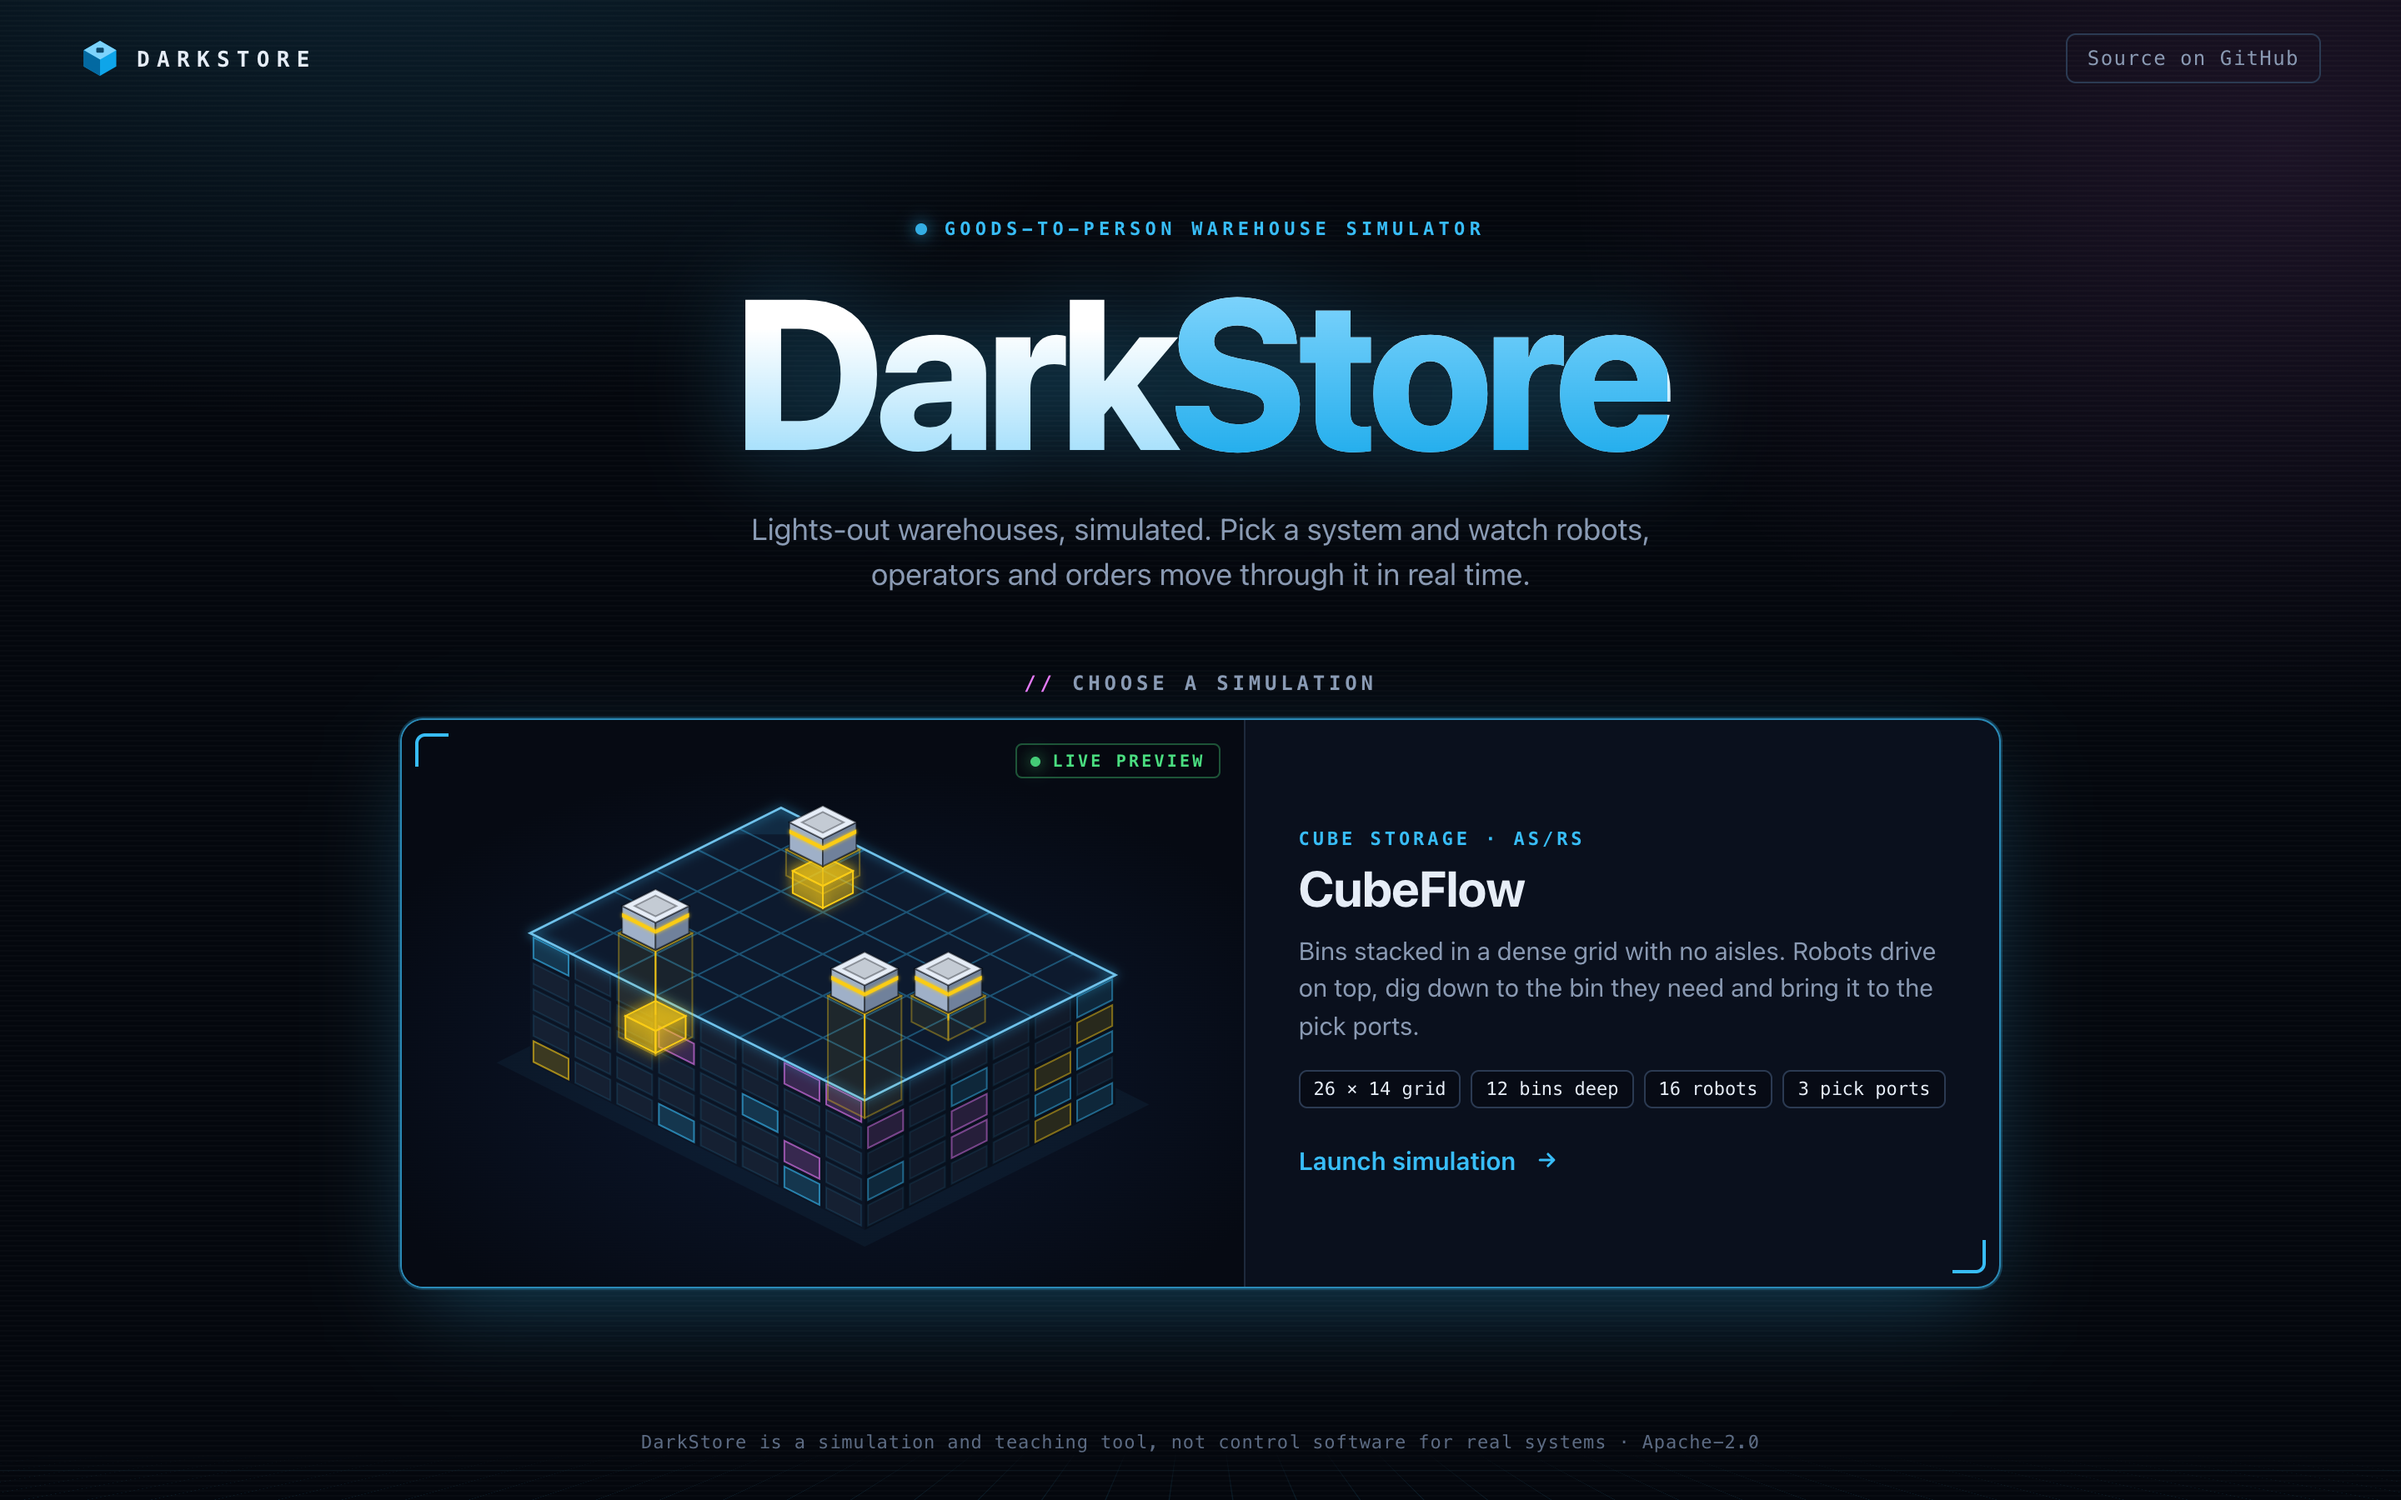
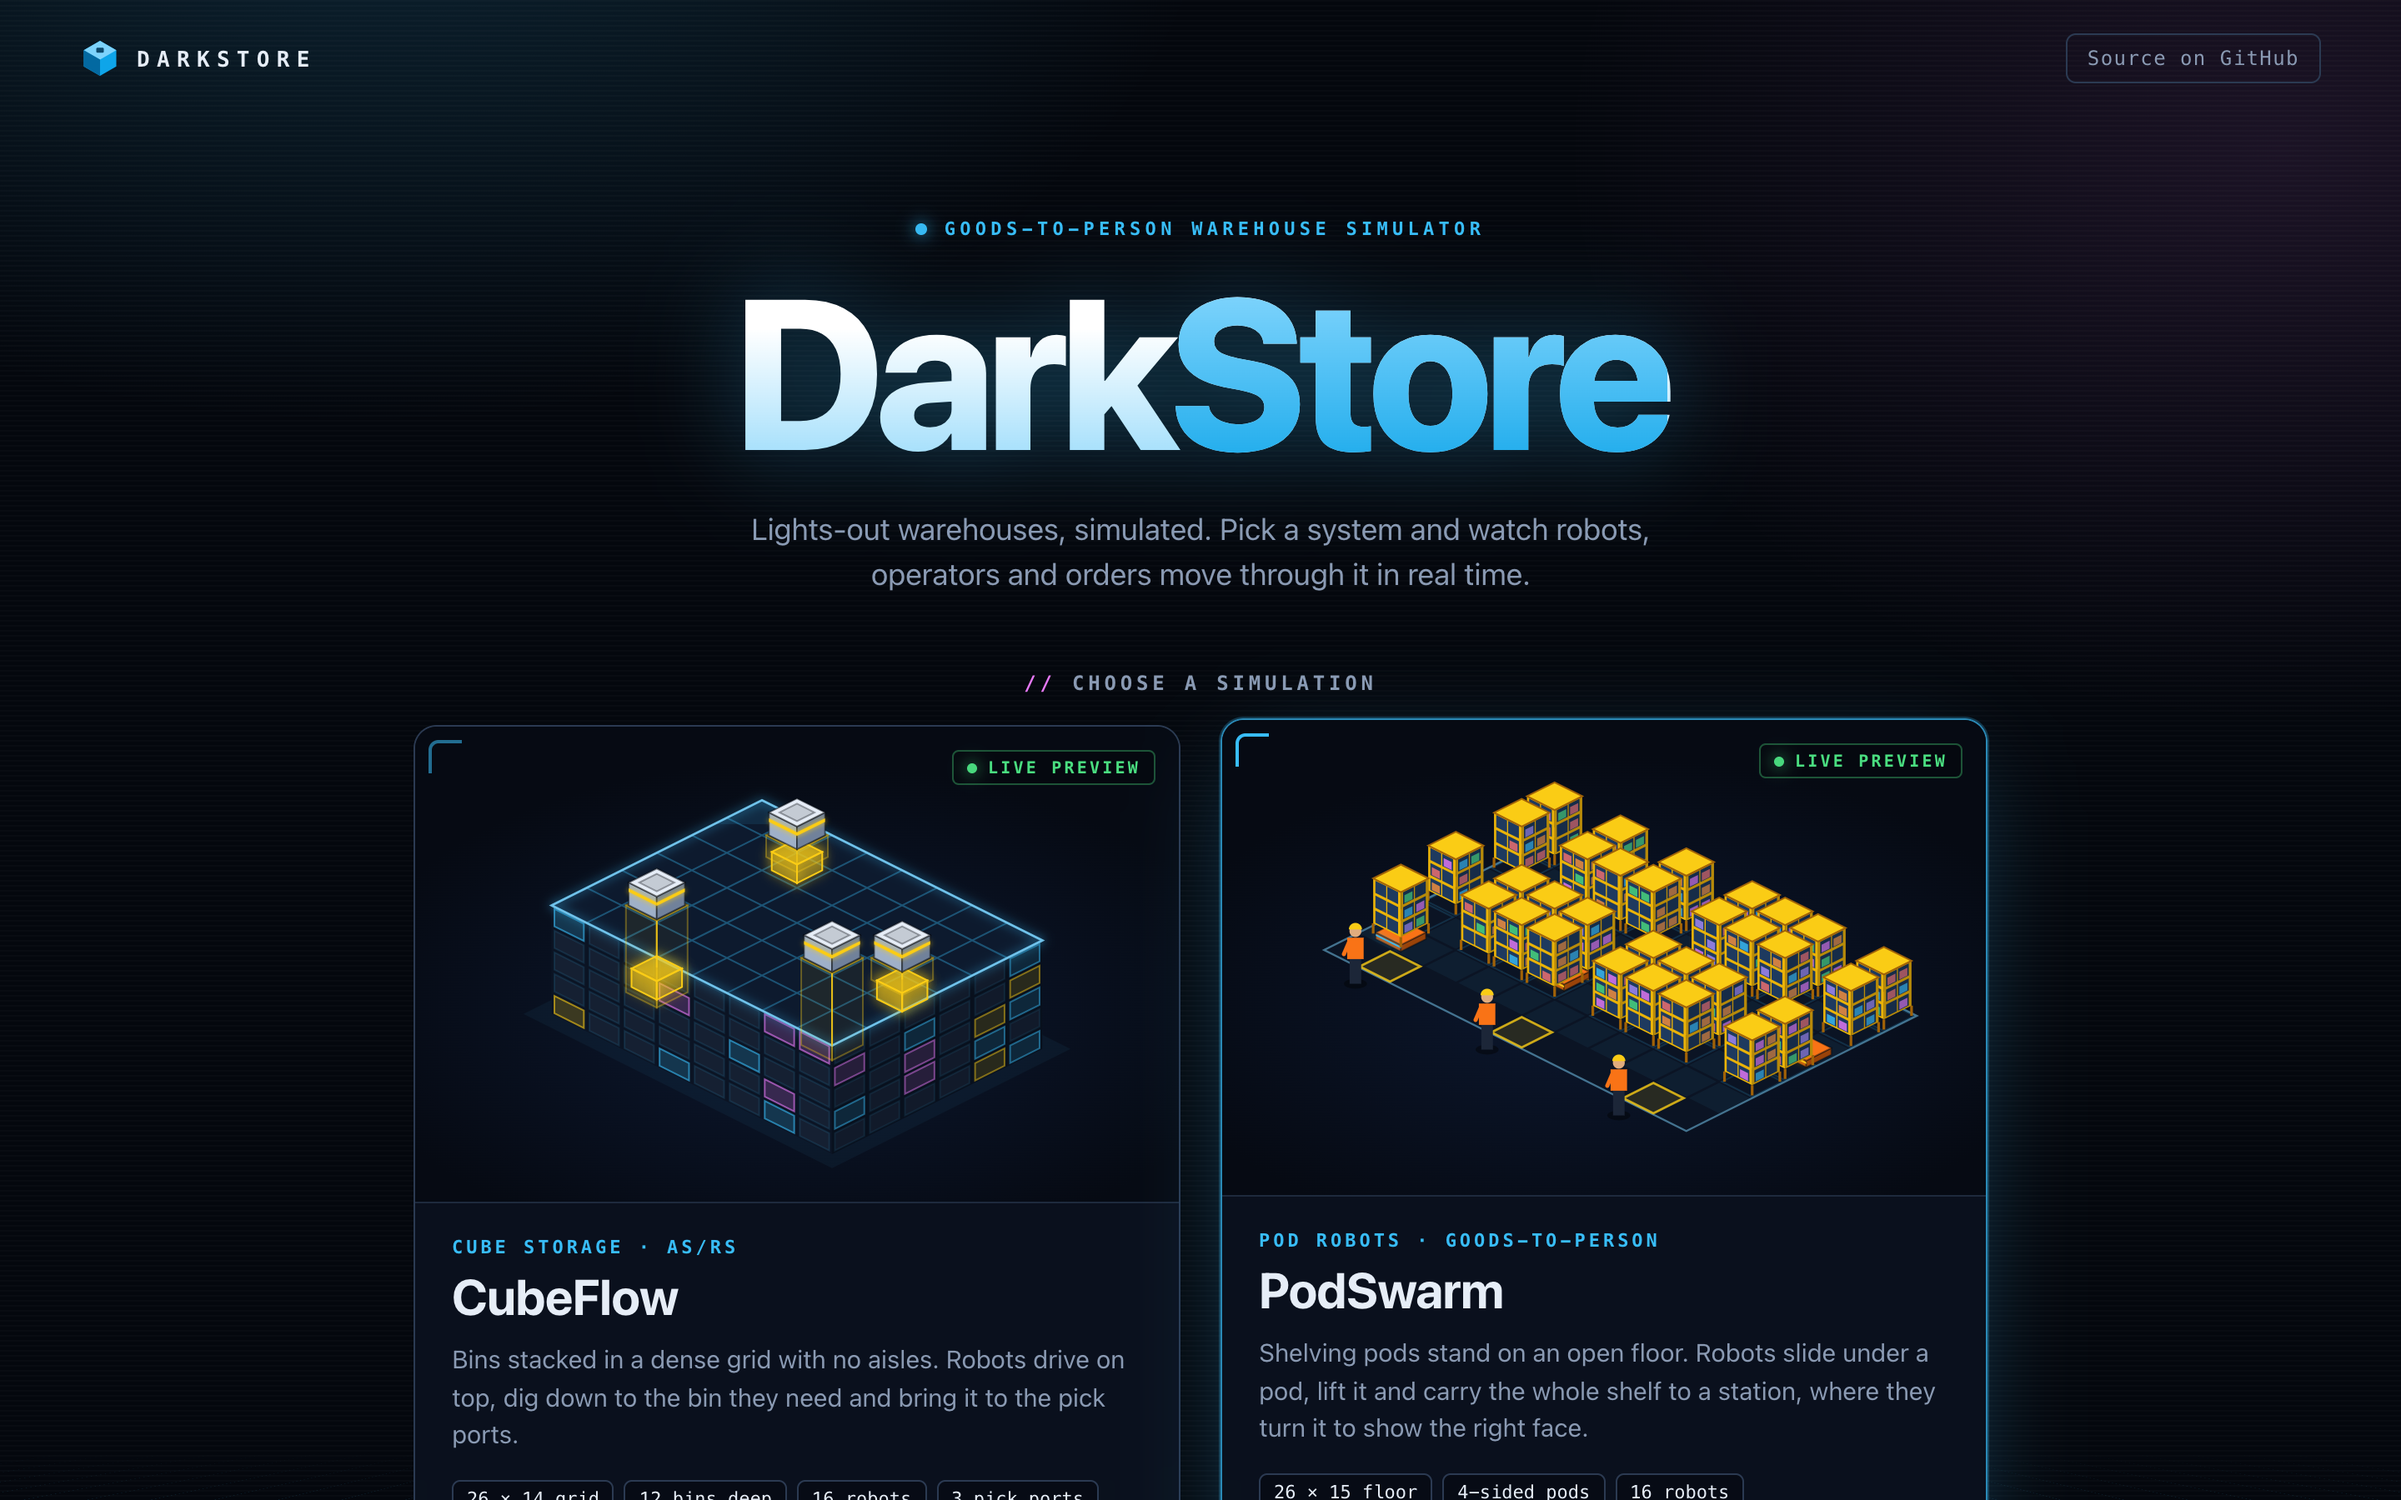
docs: describe PodSwarm and add its screenshots

diff --git a/README.md b/README.md
@@ -1,10 +1,16 @@
 # DarkStore — a goods-to-person warehouse simulator
 
-A browser simulator for goods-to-person warehouse automation. It currently models a
-grid-based (cube storage) automated storage and retrieval system. The specs are in
-[`specs/`](specs/README.txt): `common.txt` holds the rules shared by every storage type and
-`cube.txt` describes the type implemented here. Specs for shuttle, pod, ACR and stacker crane
-systems are written but not implemented yet.
+A browser simulator for goods-to-person warehouse automation. Each type of system has its own
+simulation and name:
+
+- **CubeFlow**: cube storage, a grid-based AS/RS where bins are stacked and robots dig from above.
+- **PodSwarm**: pod robots that lift shelving units off the floor and carry them to stations.
+
+The specs are in [`specs/`](specs/README.txt). `common.txt` holds the rules shared by every storage
+type, and `cube.txt` and `pod.txt` describe the two types implemented here. Specs for shuttle, ACR and
+stacker crane systems are written but not implemented yet.
+
+### CubeFlow
 
 ![Floor view: robots on the grid, pick ports, pack stations and the outbound dock](docs/screenshots/floor.png)
 
@@ -15,30 +21,39 @@ systems are written but not implemented yet.
 | ![Close-up of robots digging and delivering bins to the pick ports](docs/screenshots/closeup.png) | ![GS1 logistics label with SSCC barcode](docs/screenshots/shipping-label.png) |
 | **Close-up:** robots digging (winch depth shown) and pick ports | **Shipping label:** GS1 logistics label with SSCC |
 
+### PodSwarm
+
+![PodSwarm floor view: shelving pods in blocks, robots carrying pods to the pick stations](docs/screenshots/pod-floor.png)
+
+| | |
+|---|---|
+| ![Close-up of pick stations: pods presented to operators, the pocket to pick from lit green](docs/screenshots/pod-closeup.png) | ![PodSwarm control room: hit rate, pod returns, floor map with queue lanes](docs/screenshots/pod-control.png) |
+| **Close-up:** pods queue in a lane and are turned to show the operator the right face | **Control room:** hit rate, pod returns and the live floor map |
+
 ## Run
 
 Open `index.html` in Safari (or any modern browser). It has no build step, no
 dependencies and no network calls, so double-clicking the file works.
 
 `index.html` is the landing page, where you choose a simulation. Each warehouse type has its own
-name and page; for now there is one, **CubeFlow** (cube storage), at `cubeflow.html`.
+name and page: **CubeFlow** at `cubeflow.html` and **PodSwarm** at `podswarm.html`.
 
-![Landing page with the CubeFlow simulation card](docs/screenshots/landing.png)
+![Landing page with the CubeFlow and PodSwarm simulation cards](docs/screenshots/landing.png)
 
-Optional URL parameters for `cubeflow.html` (handy for demos):
+Optional URL parameters for both simulation pages (handy for demos):
 
 | Parameter | Effect |
 |---|---|
 | `?warm=1800` | Pre-run 1800 simulated seconds before showing the page |
 | `&view=floor\|split\|control` | Start in a given view |
-| `&xray=1`, `&heat=1` | Turn on X-ray stacks / ABC & heat overlay |
+| `&xray=1`, `&heat=1` | Turn on X-ray stacks (CubeFlow only) / ABC & heat overlay |
 
 Controls: drag to pan, scroll or pinch to zoom, **space** to pause, **Esc** to
-close panels. Click robots, grid cells, ports, pack stations or the dock to inspect them.
-The scan box at the top takes GTINs, SSCCs, bin/tote GRAIs, bin IDs (`B00042`),
+close panels. Click robots, grid cells, pods, ports, pack stations or the dock to inspect them.
+The scan box at the top takes GTINs, SSCCs, bin/pod/tote GRAIs, bin and pod IDs (`B00042`, `POD-0042`),
 order numbers (`SO-100001`), ASNs, robots (`R03`) and ports (`P01`).
 
-## What is modelled
+## What is modelled: CubeFlow
 
 **Grid & robots.** A `[X][Y][Z]` matrix of bin stacks with chargers on the back edge,
 conveyor pick ports on the front face and a goods-in (decant) port on the right face.
@@ -93,6 +108,31 @@ they can never match a real product, asset or shipment.
 It also raises bottleneck alerts: traffic hotspots, starved or blocked ports, backorders, tote
 shortage and low battery.
 
+## What is modelled: PodSwarm
+
+PodSwarm shares the order flow, inbound, inventory, put wall, packing, dock, barcodes and control
+room with CubeFlow. What differs:
+
+**Floor & pods.** A floor of 1.2 m cells: storage blocks two cells deep, highways between them, a
+queue lane in front of each station and chargers on the back wall. Each pod has four faces of
+shelves with fabric bins; one SKU is spread over many pods.
+
+**Robots.** Drive units turn on the spot to change direction (90° in 1.5 s) and lift a pod in 1.5 s.
+An empty robot may drive under stored pods (*tunnelling*, can be switched off); a robot carrying a pod
+keeps to highways and empty cells. Traffic control is the same moving-block reservation and A* as in
+CubeFlow.
+
+**Stations.** A pod joins its station's queue lane and moves up in order. At the station the robot
+turns the pod so the face with the next pick points at the operator; the lines are sorted by face so the
+pod turns as little as possible. Lines that arrive for the same station while a pod is there are picked
+without it leaving.
+
+**Storage policy.** A pod goes back to a free cell, not necessarily its old one. With the default
+velocity policy, busy pods end up near the stations; *nearest* and *random* are there to compare.
+
+**KPIs.** Instead of dig ratio and burial penalties, PodSwarm reports the hit rate (order lines picked
+per pod presentation) and pod returns.
+
 ## Time model
 
 The simulation advances in fixed 100 ms ticks and also has a small discrete-event queue. Rendering
@@ -103,21 +143,23 @@ with the default 16 robots.
 
 ```
 index.html, css/landing.css, js/landing/   landing page and simulation previews
-cubeflow.html, css/style.css               CubeFlow simulator page
-js/core/    util (RNG, heap), barcode (GS1 encoders), config (defaults)
-js/sim/     grid, inventory (IMS), router (fleet manager), robot (state machine + tasks),
-            ports, orders (OMS, packing, dock), kpi, sim (loop, dispatcher, layout)
+cubeflow.html, podswarm.html, css/style.css simulator pages
+js/core/    util (RNG, heap), barcode (GS1 encoders), config (CubeFlow defaults)
+js/sim/     shared simulation and CubeFlow: grid, inventory (IMS), router (fleet manager),
+            robot (state machine + tasks), ports, orders (OMS, packing, dock), kpi,
+            sim (loop, dispatcher, layout)
+js/pod/     PodSwarm: config, floor, sim (dispatch, tasks, pod faces), render
 js/render/  iso (isometric floor), control (SCADA map + charts)
 js/ui/      ui (panels, inspector, labels, scanning)
-test/run.js headless soak test with invariant checks:  node test/run.js [hours] [seed]
+test/run.js headless soak test with invariant checks:  node test/run.js [hours] [seed] [cube|pod]
 ```
 
 ## Disclaimer
 
 DarkStore is a simulation and teaching tool. It is not control software for real robots or storage
-systems, and it must not be used as such. It is inspired by cube-storage AS/RS systems in general and
-is not affiliated with, endorsed by or derived from any vendor of such systems. All company names,
-addresses, products and barcodes in the simulation are fictional.
+systems, and it must not be used as such. It is inspired by cube-storage AS/RS and pod-robot systems
+in general and is not affiliated with, endorsed by or derived from any vendor of such systems. All
+company names, addresses, products and barcodes in the simulation are fictional.
 
 ## License
 
